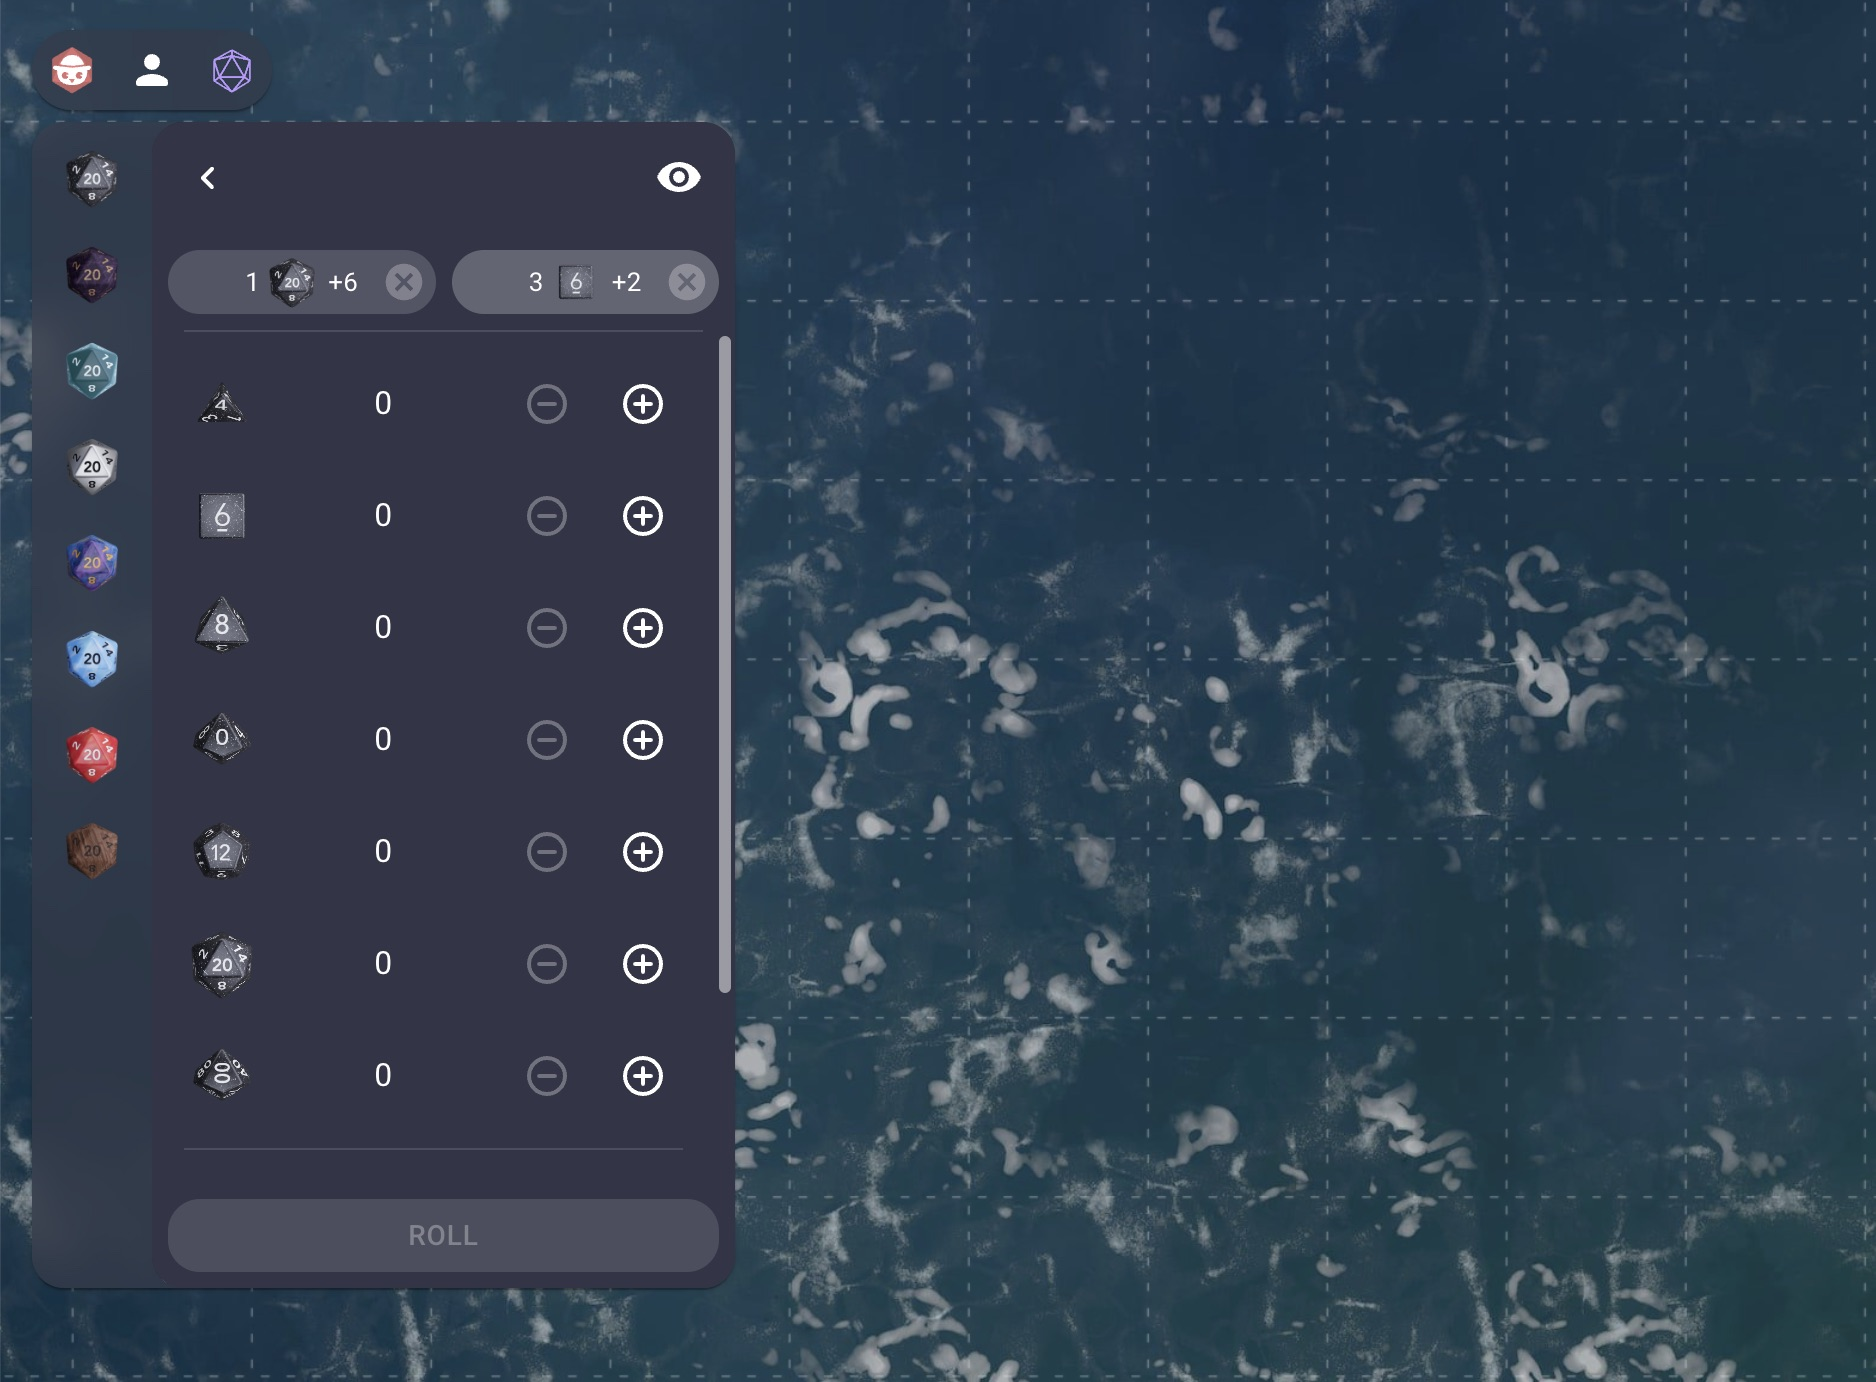
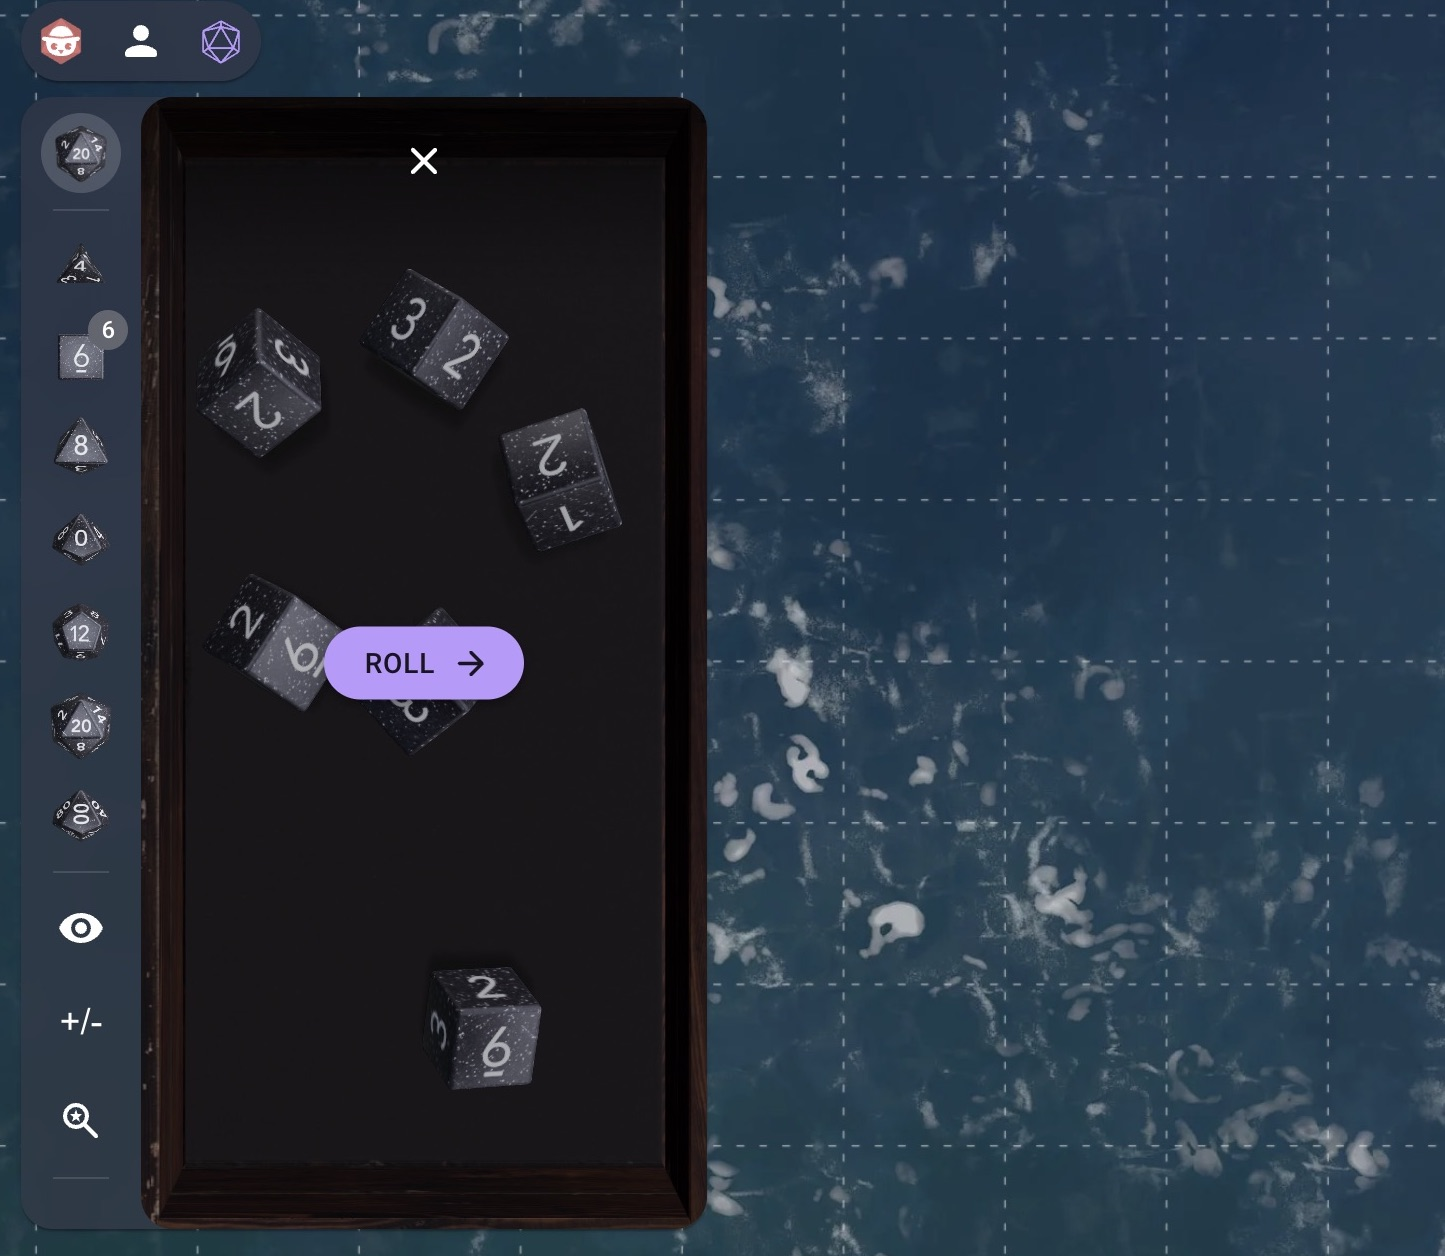
Update docs

diff --git a/docs/store.md b/docs/store.md
@@ -15,11 +15,9 @@ learn-more: https://owlbear.app
 
 Beautiful 3D dice extension for d20 based systems
 
-You can roll dice by selecting a style on the left of the dice popover.
+You can add dice to your dice tray by clicking one of the dice icons in the left bar.
 
-You can then use the quick bar to select which dice to roll. When you want to roll the dice simply click the Roll button.
-
-If you'd like more control over the roll you can expand the quick bar into a full roll dialog.
+When you want to roll the dice simply click the Roll button.
 
 ![roll interface](https://raw.githubusercontent.com/owlbear-rodeo/dice/main/docs/roll.jpg)
 
@@ -29,11 +27,25 @@ Once rolled the extension will use a physics simulation to determine the results
 
 The dice roller will sync this simulation over the network so all connected players can see the roll in real-time.
 
-By default other players dice trays will show up as a small preview in the bottom left. You can expand this preview by clicking it.
+By default other players dice trays will show up as a small preview in the bottom right. You can expand this preview by clicking it.
+
+![player roll](https://raw.githubusercontent.com/owlbear-rodeo/dice/main/docs/roll.jpg)
 
 **Private Rolls**
 
-To make a roll privately you can select the eye icon in the top right when making a roll.
+To make a roll privately you can select the eye icon in the sidebar when making a roll.
+
+**Bonus and Advantage**
+
+To add a bonus or advantage/disadvantage to your next roll you can click the +/- icon in the sidebar.
+
+![bonus](https://raw.githubusercontent.com/owlbear-rodeo/dice/main/docs/bonus.jpg)
+
+**Recent Rolls**
+
+To re-roll one of your recent rolls you can click the search glass icon in the sidebar.
+
+![recent rolls](https://raw.githubusercontent.com/owlbear-rodeo/dice/main/docs/recent.jpg)
 
 **Support**
 
